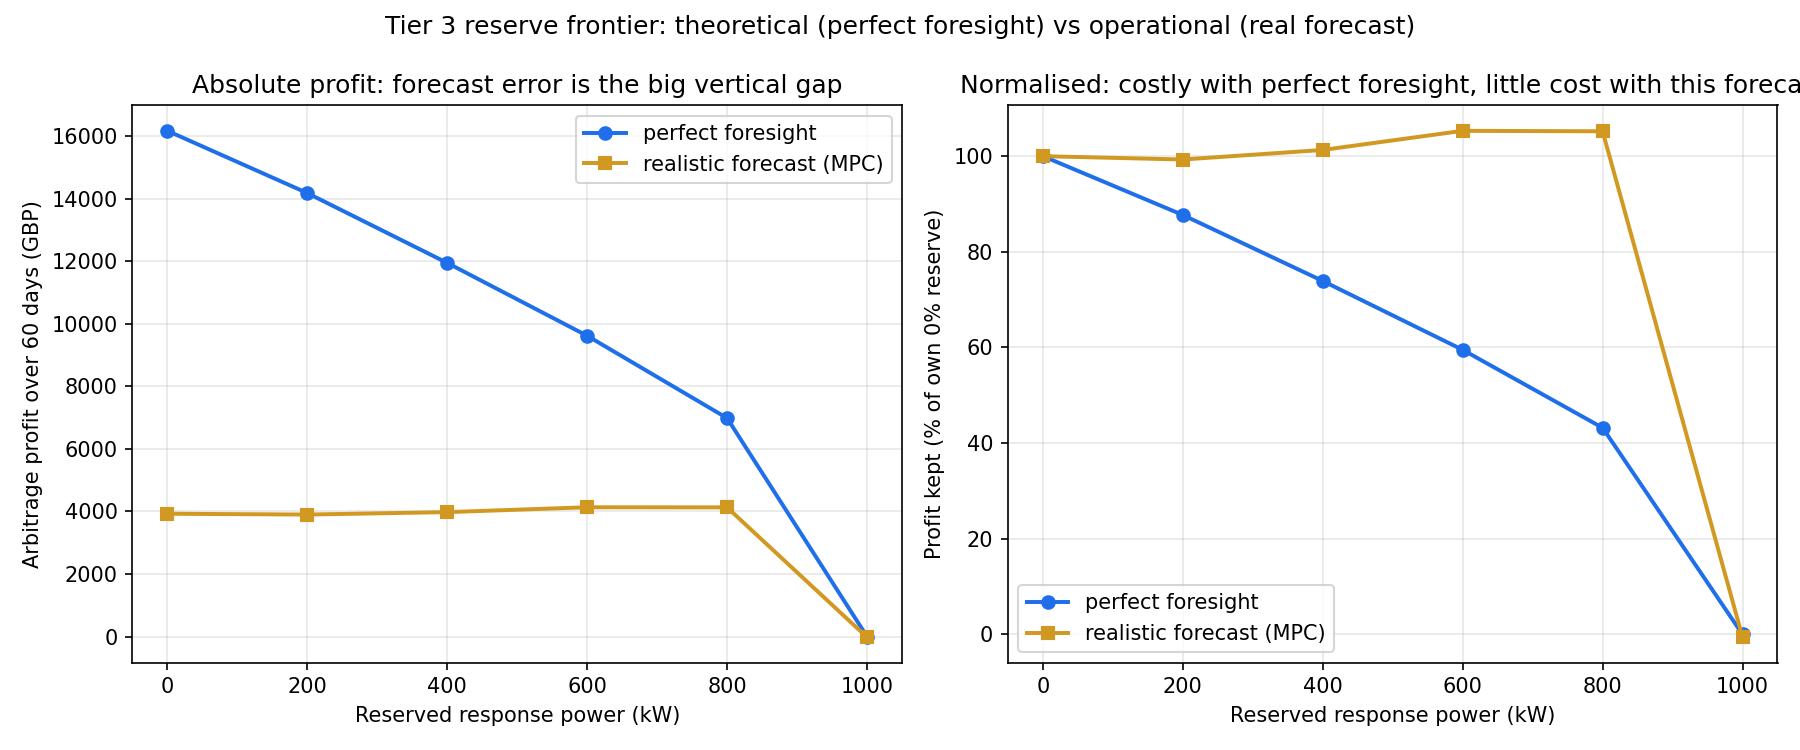
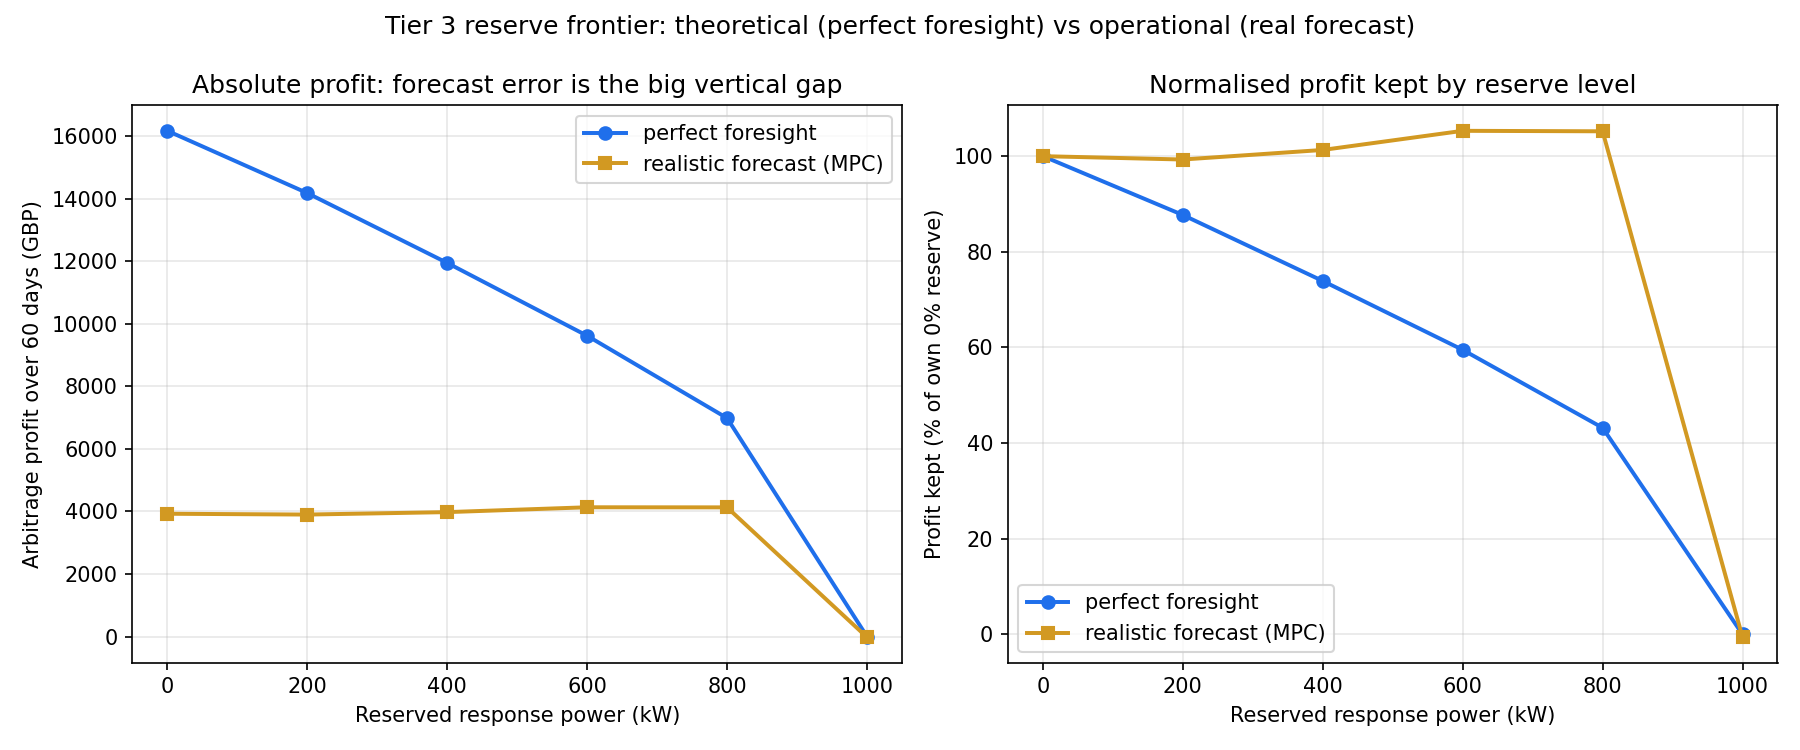
Final polish

Changed region(s): [[0.5289, 0.092, 1.0, 0.1227]]

diff --git a/battery/mpc.py b/battery/mpc.py
@@ -43,6 +43,6 @@ def run_mpc(p_da, params: BatteryParams = BatteryParams(), horizon: int = 24,
         e = min(max(e, 0.0), par.e_cap_kwh)
         soc[h + 1] = e
 
-    # TODO: books day-ahead arbitrage only; reserve and imbalance revenue are not stacked yet
+    # Scope: books day-ahead arbitrage only; reserve and imbalance revenue are not stacked yet
     profit = float(np.sum(p_da * (discharge - charge) * dt / 1000.0))
     return {"charge_kw": charge, "discharge_kw": discharge, "soc_kwh": soc, "profit_gbp": profit}

diff --git a/coupling/coupled.py b/coupling/coupled.py
@@ -24,7 +24,7 @@ def run_coupled(system: PowerSystem, supervisor: Supervisor, fleet: FleetRespons
         resp_mw = fleet.injection_pu(f_hz, system.f_nom, system.s_base_mw) * system.s_base_mw
 
         if mode == ARBITRAGE:
-            p = arb_setpoint_mw    # TODO: constant stand-in for the hourly MPC dispatch
+            p = arb_setpoint_mw    # constant stand-in for the hourly MPC dispatch
         elif mode == RESERVE:
             p = max(0.0, arb_setpoint_mw)              # cancel charging and hold ready
         elif mode == RESPONSE:

diff --git a/make_tier3_sensitivity.py b/make_tier3_sensitivity.py
@@ -51,7 +51,7 @@ ax2.plot(df["reserve_kw"], df["perfect_pct"], "o-", lw=1.9, color="#1f6feb", lab
 ax2.plot(df["reserve_kw"], df["realistic_pct"], "s-", lw=1.9, color="#d29922", label="realistic forecast (MPC)")
 ax2.set_xlabel("Reserved response power (kW)")
 ax2.set_ylabel("Profit kept (% of own 0% reserve)")
-ax2.set_title("Normalised: costly with perfect foresight, little cost with this forecast")
+ax2.set_title("Normalised profit kept by reserve level")
 ax2.legend()
 ax2.grid(alpha=0.3)
 fig.suptitle("Tier 3 reserve frontier: theoretical (perfect foresight) vs operational (real forecast)")